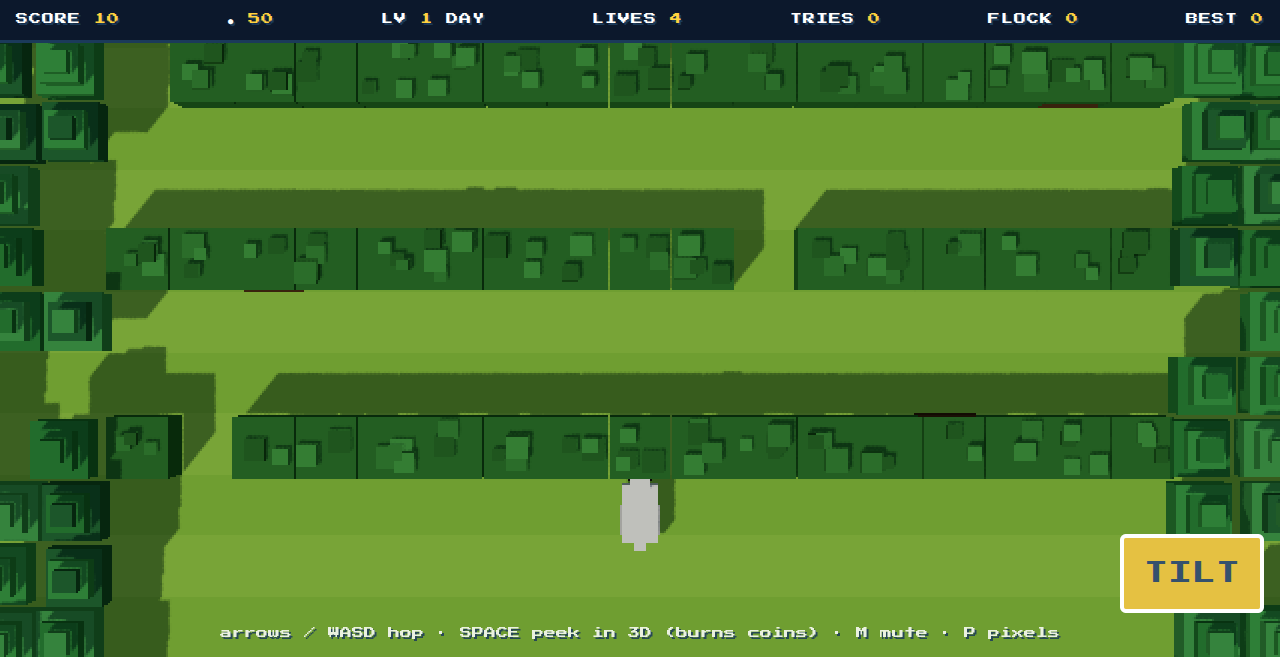
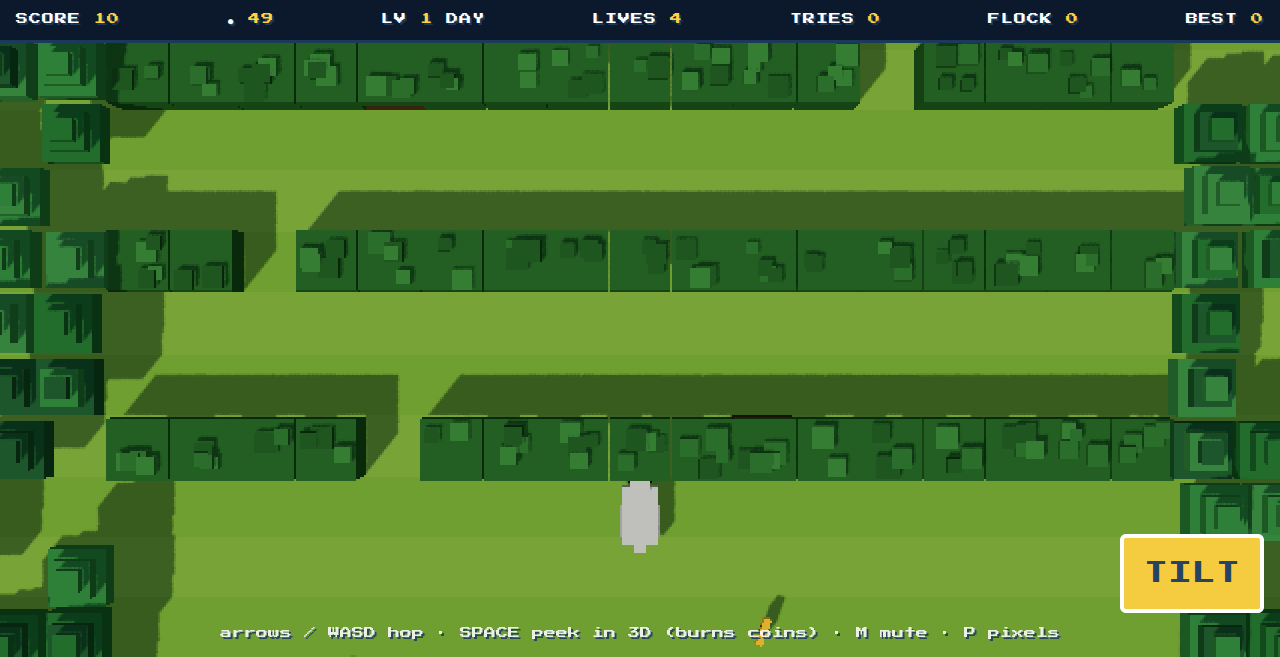
Minesweeper gauntlet: hidden mines, count dots, follower detectors, turn-and-flag, fuse and finale with scorch marks

diff --git a/src/modes/crossing.js b/src/modes/crossing.js
@@ -7,6 +7,8 @@ import { Train } from '../train.js';
 import { sfx } from '../sfx.js';
 import { music } from '../music.js';
 import { lerp, clamp } from '../util.js';
+import { W } from '../lane.js';
+import { FLAG_BONUS } from '../scenarios/mines.js';
 import { rollVariant } from '../characters.js';
 import { Debris } from '../debris.js';
 import { GAUNTLET_BONUS } from '../game.js';
@@ -46,6 +48,7 @@ export class CrossingMode {
       gauntlet: this.game.run.gauntlet,
       onFinish: () => { this.finished = true; },
     });
+    this.world.onMine = () => { this.mined = 0.001; };
     this.buildPlayers();
     this.world.ensure(26);
     this.finished = false;
@@ -57,6 +60,7 @@ export class CrossingMode {
     this.game.camera.snap(0, -3, 'top');
     this.game.ui.view.hidden = false;
     if (this.game.run.gauntlet) { this.game.card(`${this.game.run.gauntlet.toUpperCase()} GAUNTLET`); setTimeout(() => this.game.card(''), 2200); }
+    if (this.game.run.gauntlet === 'mines') this.hint = 'arrows hop · Q/E turn · F flag the cell ahead · followers beep on mines · SPACE peek';
     if (this.game.roster.length > 1) this.hint = 'P1 arrows · P2 WASD · SPACE peek in 3D (burns coins) · M mute';
   }
 
@@ -150,6 +154,8 @@ export class CrossingMode {
   onKey(e) {
     if (e.code === 'Space') { this.setTilt(!this.tilted); return true; }
     if (e.code === 'ShiftLeft' || e.code === 'ShiftRight') { this.setTilt(true); return true; }
+    if (e.code === 'KeyQ' || e.code === 'KeyE') { this.players[0].turn(e.code === 'KeyQ' ? 1 : -1); return true; }
+    if (e.code === 'KeyF') { this.plantFlag(this.players[0]); return true; }
     const solo = this.players.length === 1;
     for (let i = 0; i < KEYMAPS.length; i++) {
       const d = KEYMAPS[i][e.code];
@@ -159,6 +165,14 @@ export class CrossingMode {
       return true;
     }
     return false;
+  }
+
+  // Toggle a flag on the cell the player faces, on minefield rows only.
+  plantFlag(p) {
+    const [c, r] = p.ahead();
+    const lane = this.world.laneAt(r);
+    if (!lane?.scenario.toggleFlag || Math.abs(c) > W) { sfx.bump(); return; }
+    lane.scenario.toggleFlag(lane, c);
   }
 
   onKeyUp(e) {
@@ -246,6 +260,13 @@ export class CrossingMode {
     const waiting = this.trains.reduce((a, t) => a + t.waiting, 0);
     game.hud(game.run.score + front, `<b>${chicks}</b>${waiting ? ` +${waiting} WAITING` : ''}`);
 
+    if (this.mined) {
+      // A mine went off: a beat to take it in, then straight to the next level with nothing earned.
+      this.mined += dt;
+      game.card('KABOOM · NO BONUS');
+      if (this.mined > 2.4) { game.card(''); game.run.gauntlet = null; game.nextLevel(); }
+      return;
+    }
     if (this.tally) { this.updateTally(dt); return; }
     if (this.finished) { this.startTally(front); return; }
     for (const p of this.players) if (!p.alive && !p.gone && p.deadFor > DEATH_FLAP + 0.9) { this.respawn(p); return; }
@@ -258,8 +279,10 @@ export class CrossingMode {
     const led = this.trains.reduce((a, t) => a + t.count, 0);
     const found = this.trains.reduce((a, t) => a + t.waiting, 0);
     const missed = Math.max(0, (this.world.data.eggsPlaced ?? 0) - this.trains.reduce((a, t) => a + t.hatched, 0));
-    this.tally = { t: 0, led, found, missed, rows: front, done: false, gauntlet: !!game.run.gauntlet };
+    this.tally = { t: 0, led, found, missed, rows: front, done: false, gauntlet: !!game.run.gauntlet, mines: game.run.gauntlet === 'mines' };
     for (const p of this.players) p.invincible = true;
+    // Minefield finale: everything left in the ground goes up, nearest rows first.
+    if (this.tally.mines) for (const l of this.world.rows.values()) if (l.scenario.id === 'mines') l.scenario.detonateAll(l, this.players[0].row);
     this.setTilt(false);
     game.run.score += front;
     sfx.start();
@@ -274,6 +297,13 @@ export class CrossingMode {
     if (T.t > 0.8) lines.push(`LED HOME ×${T.led}  +${T.led * LED_BONUS}`);
     if (T.t > 1.8) lines.push(`FOUND ×${T.found}  +${T.found * FOUND_BONUS}`);
     if (T.t > 2.8 && T.missed) lines.push(`MISSED ×${T.missed}`);
+    if (T.t > 3.4 && T.mines) {
+      const rows = [...this.world.rows.values()].filter((l) => l.scenario.id === 'mines');
+      const hits = rows.reduce((a, l) => a + (l.data.hits ?? 0), 0);
+      const flags = rows.reduce((a, l) => a + l.data.flags.size, 0);
+      lines.push(`FLAGS ${hits}/${flags} RIGHT  +${hits * FLAG_BONUS}`);
+      if (!T.flagged) { T.flagged = true; game.run.score += hits * FLAG_BONUS; }
+    }
     if (T.t > 3.4 && T.gauntlet) lines.push(`PHEW, MADE IT  +${GAUNTLET_BONUS}`);
     game.card(lines.join('   ·   '));
     if (T.t > 1.8 && !T.paid) {
@@ -282,7 +312,7 @@ export class CrossingMode {
       game.run.coins += T.led + T.found;
     }
     if (T.t > 3.4 && T.gauntlet && !T.phew) { T.phew = true; game.run.score += GAUNTLET_BONUS; game.run.gauntlet = null; sfx.phew(); }
-    if (T.t > TALLY_TIME) {
+    if (T.t > TALLY_TIME + (T.mines ? 2 : 0)) {
       // Everyone carries over, gathered or not.
       this.trains.forEach((t, i) => { game.run.flock[i] = { count: t.total, waiting: 0 }; });
       game.card('');

diff --git a/src/scenarios/mines.js b/src/scenarios/mines.js
@@ -1,0 +1,114 @@
+// Minesweeper gauntlet: open ground, no traffic, buried mines that never show
+// from any angle. A guaranteed safe path random-walks up the field and carries
+// coins; eggs sit on safe cells, and the followers they hatch are your mine
+// detectors: a follower stepping on a mine makes it beep underground. Landing
+// on a safe cell shows its adjacent-mine count as red dots. Q/E turn in place
+// and F plants a flag one cell ahead. Stepping on a mine raises it, beeping,
+// and it blows the level with no bonus. Crossing the line blows every mine at
+// once instead, and the flags that were right pay out.
+import { makeMine, makeCountTile, makeFlagMarker, makeScorch } from '../meshes.js';
+import { W } from '../lane.js';
+import { sfx } from '../sfx.js';
+import { randInt, clamp } from '../util.js';
+
+const DENSITY = 0.16;
+const FUSE = 1.7;          // seconds of beeping before the blast
+export const FLAG_BONUS = 30;
+
+export default {
+  id: 'mines',
+  danger: true,
+  weight: 0,          // only as a gauntlet (or forced)
+  band: [3, 4],
+  build(lane, { world }) {
+    lane.terrain();
+    lane.edges();
+    lane.data.mines = new Map();
+    lane.data.flags = new Map();
+    lane.data.revealed = new Set();
+    world.pathCol = clamp(world.pathCol + randInt(-1, 1), -W + 1, W - 1);
+    const safe = new Set([world.pathCol - 1, world.pathCol, world.pathCol + 1]);
+    for (let c = -W; c <= W; c++) {
+      if (safe.has(c)) continue;
+      if (Math.random() < DENSITY) lane.data.mines.set(c, { c, mesh: null, t: 0 });
+      else if (Math.random() < 0.12) lane.coin(c);
+      else if (Math.random() < 0.05) lane.egg(c);
+    }
+    if (lane.r % 2 === 0) lane.coin(world.pathCol);
+  },
+
+  adjacent(lane, c) {
+    let n = 0;
+    for (const r of [lane.r - 1, lane.r, lane.r + 1]) {
+      const l = lane.world.rows.get(r);
+      if (!l?.data.mines) continue;
+      for (const dc of [-1, 0, 1]) if (l.data.mines.has(c + dc)) n++;
+    }
+    return n;
+  },
+
+  arm(lane, mine, delay = 0) {
+    mine.mesh = lane.add(makeMine(), mine.c);
+    mine.mesh.position.y = -0.9;
+    mine.t = -delay;
+    (lane.data.armed ??= []).push(mine);
+  },
+
+  onLand(lane, player) {
+    const mine = lane.data.mines.get(player.col);
+    if (mine && !mine.mesh) {
+      this.arm(lane, mine);
+      lane.data.fatal = true;
+      player.frozen = true;
+      return null;
+    }
+    if (!lane.data.revealed.has(player.col)) {
+      lane.data.revealed.add(player.col);
+      const n = this.adjacent(lane, player.col);
+      if (n) lane.add(makeCountTile(n), player.col);
+    }
+    return null;
+  },
+
+  // A follower on a mine: it beeps, buried, and nothing else happens.
+  onFollowerLand(lane, c) {
+    if (lane.data.mines.has(c)) sfx.beep(0.6);
+  },
+
+  toggleFlag(lane, c) {
+    const f = lane.data.flags.get(c);
+    if (f) { lane.group.remove(f); lane.data.flags.delete(c); }
+    else lane.data.flags.set(c, lane.add(makeFlagMarker(), c));
+    sfx.tick();
+  },
+
+  // The finale: every remaining mine rises and goes off, nearest rows first.
+  detonateAll(lane, fromRow) {
+    for (const m of lane.data.mines.values()) if (!m.mesh) this.arm(lane, m, Math.abs(lane.r - fromRow) * 0.08);
+    lane.data.finale = true;
+  },
+
+  update(lane, dt, time) {
+    const armed = lane.data.armed;
+    if (!armed?.length) return;
+    const on = Math.sin(time * 40) > 0;
+    for (const m of [...armed]) {
+      m.t += dt;
+      if (m.t < 0) continue;
+      m.mesh.position.y = Math.min(0, -0.9 + m.t * 1.6);
+      m.mesh.lamp.material.color.set(on ? 0xff2a1a : 0x3a0a0a);
+      if (m.t >= FUSE) {
+        armed.splice(armed.indexOf(m), 1);
+        lane.data.mines.delete(m.c);
+        const fx = lane.world.config.fx;
+        if (fx) fx.explode(m.mesh, 1.4); else lane.group.remove(m.mesh);
+        lane.add(makeScorch(), m.c);
+        if (lane.data.flags.has(m.c)) lane.data.hits = (lane.data.hits ?? 0) + 1;
+        if (!lane.data.finale) { sfx.boom(1.6); lane.world.onMine?.(); }
+      }
+    }
+    // One beep for the row per tick, so a finale is a chorus rather than a wall.
+    const ticking = armed.some((m) => m.t >= 0 && m.t < FUSE);
+    if (ticking && Math.floor(time / 0.12) !== lane.data.beat) { lane.data.beat = Math.floor(time / 0.12); if (Math.abs(lane.r - (lane.world.focusRow ?? lane.r)) <= 9) sfx.beep(); }
+  },
+};

diff --git a/src/meshes.js b/src/meshes.js
@@ -503,3 +503,44 @@ export function makeRailSignal() {
   g.add(box(0.7, 0.1, 0.06, 0xffffff, 0, 1.3, 0.08, false));  // crossbuck
   return g;
 }
+
+// ---- mines ----
+// Two grey plates and an antenna with a lamp. Buried until triggered.
+export function makeMine() {
+  const g = new THREE.Group();
+  g.add(box(1.0, 0.12, 1.0, 0x55585e, 0, 0));
+  g.add(box(0.7, 0.1, 0.7, 0x8a8f96, 0, 0.12));
+  g.add(box(0.06, 0.55, 0.06, 0x333333, 0, 0.22));
+  const lamp = box(0.16, 0.16, 0.16, new THREE.MeshBasicMaterial({ color: 0x3a0a0a }), 0, 0.77, 0, false);
+  g.add(lamp);
+  g.lamp = lamp;
+  return g;
+}
+
+// Disturbed earth over a buried mine: top face matches the ground, so it only
+// reads from the side.
+export function makeMound(color) {
+  return box(0.9, 0.12, 0.9, color, 0, 0, 0, false);
+}
+
+const DOT = new THREE.MeshBasicMaterial({ color: 0xff3b1a });
+// Adjacent-mine count on a revealed safe cell, as a row of dots.
+export function makeCountTile(n) {
+  const g = new THREE.Group();
+  for (let i = 0; i < Math.min(n, 8); i++) {
+    const col = i % 4, row = Math.floor(i / 4);
+    g.add(box(0.14, 0.05, 0.14, DOT, -0.3 + col * 0.2, 0.01, -0.12 + row * 0.24, false));
+  }
+  return g;
+}
+
+// Flag marker for a suspected mine, and the scorch a mine leaves behind.
+export function makeFlagMarker() {
+  const g = new THREE.Group();
+  g.add(box(0.06, 0.7, 0.06, 0xdddddd, 0.15, 0, 0.15));
+  g.add(box(0.36, 0.22, 0.05, 0xff3b1a, 0.35, 0.45, 0.15));
+  return g;
+}
+export function makeScorch() {
+  return box(0.95, 0.03, 0.95, 0x1e1a18, 0, 0, 0, false);
+}

diff --git a/src/player.js b/src/player.js
@@ -39,6 +39,7 @@ export class Player {
     this.onLanded = null;     // hook: called after every landing
     this.isOccupied = null;   // hook: (col, row) => true blocks a hop
     this.invincible = false;
+    this.frozen = false;
     this.bump = 0;
     this.lastHop = -10; this.burst = 0; this.idle = 0;
     this.mesh.scale.set(1, 1, 1);
@@ -57,7 +58,7 @@ export class Player {
   }
 
   hop(dc, dr) {
-    if (!this.alive) return;
+    if (!this.alive || this.frozen) return;
     if (this.moving) { this.buffered = [dc, dr]; return; }
     this.facing = dr > 0 ? 0 : dr < 0 ? Math.PI : dc < 0 ? Math.PI / 2 : -Math.PI / 2;
     const tc = Math.round(this.x) + dc;
@@ -82,6 +83,20 @@ export class Player {
     this.carrier = null;
     sfx.hop();
     this.call();
+  }
+
+  // Turn a quarter without moving; the flag goes where you face.
+  turn(dir) {
+    if (!this.alive || this.moving) return;
+    this.facing += dir * (Math.PI / 2);
+    sfx.tick();
+  }
+
+  // The cell one step ahead in the facing direction.
+  ahead() {
+    const a = Math.round(this.facing / (Math.PI / 2)) & 3;   // 0 fwd, 1 left, 2 back, 3 right
+    const d = [[0, 1], [-1, 0], [0, -1], [1, 0]][a];
+    return [Math.round(this.x) + d[0], this.row + d[1]];
   }
 
   mount(m) {

diff --git a/src/debug.js b/src/debug.js
@@ -3,7 +3,7 @@ import { SCENARIOS } from './scenarios/index.js';
 import { SKIES } from './sky.js';
 import { SCENERY } from './scenery/index.js';
 
-const FORCE = { KeyQ: 'road', KeyE: 'river', KeyI: 'runway', KeyO: 'rail', KeyT: 'grass', KeyY: 'hedge', KeyU: 'meadow' };
+const FORCE = { KeyQ: 'road', KeyE: 'river', KeyI: 'runway', KeyO: 'rail', KeyL: 'mines', KeyT: 'grass', KeyY: 'hedge', KeyU: 'meadow' };
 
 export function installDebug(game, ui) {
   const panel = ui.debug;
@@ -11,7 +11,7 @@ export function installDebug(game, ui) {
     panel.innerHTML = [
       '<b>DEBUG</b> (` closes)',
       '1-4 level &nbsp; 5 battle &nbsp; N next level',
-      'Q road &nbsp; E river &nbsp; I runway &nbsp; O rail &nbsp; T grass &nbsp; Y hedge &nbsp; U meadow &nbsp; 0 clear',
+      'Q road &nbsp; E river &nbsp; I runway &nbsp; O rail &nbsp; L mines &nbsp; T grass &nbsp; Y hedge &nbsp; U meadow &nbsp; 0 clear',
       'K sky &nbsp; J scenery &nbsp; V gauntlet &nbsp; G god &nbsp; C +10 coins &nbsp; H hatch chick',
       `<i>force: ${game.debug.force ?? 'none'} · sky: ${game.debug.sky ?? 'level'} · scenery: ${game.debug.scenery ?? 'level'} · god: ${game.debug.god ? 'on' : 'off'}</i>`,
     ].join('<br>');

diff --git a/src/sfx.js b/src/sfx.js
@@ -119,6 +119,7 @@ export const sfx = {
   fall: () => voice({ wave: 'triangle', freq: 1400, slideTo: 180, attack: 0.02, decay: 0.05, sustain: 0.8, hold: 0.55, release: 0.2, vol: 0.07 }),
   // Soft double ding: a nudge that something is hidden nearby.
   dingding: () => { for (const d of [0, 160]) setTimeout(() => voice({ wave: 'triangle', freq: N(93), attack: 0.003, decay: 0.05, sustain: 0.5, hold: 0.05, release: 0.12, vol: 0.045 }), d); },
+  beep: (pitch = 1) => voice({ wave: 'square', freq: 2100 * pitch, attack: 0.002, decay: 0.02, sustain: 0.5, hold: 0.03, release: 0.03, vol: 0.05 }),
   tick: () => voice({ wave: 'square', freq: N(84), attack: 0.002, decay: 0.02, sustain: 0.3, hold: 0.02, release: 0.04, vol: 0.05 }),
   // Coin drop into the slot: two bright metallic blips.
   clink: () => { voice({ wave: 'square', freq: N(91), attack: 0.002, decay: 0.03, sustain: 0.4, hold: 0.03, release: 0.05, vol: 0.06 });

diff --git a/src/train.js b/src/train.js
@@ -148,7 +148,11 @@ export class Train {
         k.mesh.position.set(lerp(k.from.x, tx, t), lerp(k.from.y, ty, t) + s * 0.4, lerp(k.from.z, tz, t));
         sy = 1 + 0.2 * s;
         setFrame(k.mesh, t > 0.2 && t < 0.85 ? 1 : 0);
-        if (k.t >= 1) { k.moving = false; setFrame(k.mesh, 0); }
+        if (k.t >= 1) {
+          k.moving = false; setFrame(k.mesh, 0);
+          const l = this.world.laneAt(k.rec.row);
+          l?.scenario.onFollowerLand?.(l, Math.round(this.resolveX(k.rec)));
+        }
       } else {
         k.mesh.position.set(tx, ty, tz);
       }

diff --git a/src/game.js b/src/game.js
@@ -16,7 +16,7 @@ const START_LIVES = 4;       // one coin buys this many
 const ODD_WEATHER = 0.1;     // chance the first level opens under a different sky
 const CONTINUE_TIME = 10;    // seconds to decide at game over
 const GAUNTLET_CHANCE = 0.06; // a level that is all one hazard, from level 2 on
-const GAUNTLET_KINDS = ['road', 'river', 'runway', 'rail'];
+const GAUNTLET_KINDS = ['road', 'river', 'runway', 'rail', 'mines'];
 export const GAUNTLET_BONUS = 500;
 
 export class Game {

diff --git a/src/scenarios/index.js b/src/scenarios/index.js
@@ -19,6 +19,7 @@ import hedge from './hedge.js';
 import finish from './finish.js';
 import runway from './runway.js';
 import rail from './rail.js';
+import mines from './mines.js';
 
-export const SCENARIOS = { meadow, grass, road, river, runway, rail, hedge, finish };
+export const SCENARIOS = { meadow, grass, road, river, runway, rail, mines, hedge, finish };
 export const INTRO = 'meadow';

diff --git a/docs/playtest.md b/docs/playtest.md
@@ -12,8 +12,8 @@ Playtest parameters are ON in `src/config.js` (`PLAYTEST_URL`). When off, every 
 | `start` | flag | Skip the title and coin slot, start with 4 lives |
 | `battle` | flag | Like `start`, then straight into the Air-Sea Battle |
 | `level` | 1–99 | Start on this level |
-| `force` | `meadow` `grass` `road` `river` `runway` `rail` `hedge` | Every band on the board is this scenario |
-| `gauntlet` | `road` `river` `runway` `rail` | A gauntlet level of this hazard |
+| `force` | `meadow` `grass` `road` `river` `runway` `rail` `mines` `hedge` | Every band on the board is this scenario |
+| `gauntlet` | `road` `river` `runway` `rail` `mines` | A gauntlet level of this hazard |
 | `sky` | `day` `sunset` `night` `rain` | Override the level's sky |
 | `scenery` | `forest` `residential` `city` `parking` | Override the level's scenery theme |
 | `chars` | `chicken` `goose` `duck` `frog` `cat` `pig` `robot` | Roster, comma separated; two ids gives co-op |
@@ -48,6 +48,7 @@ Each forced across the whole board, with god mode and a full pocket so nothing i
 | `river` | logs, boats, subs, gators; divers | [`?start&force=river&god&coins=50`](https://aaronsb.github.io/road-crosser/?start&force=river&god&coins=50) | [`?start&force=river&sky=night&god&coins=50`](https://aaronsb.github.io/road-crosser/?start&force=river&sky=night&god&coins=50) | [`?start&level=8&force=river&god&coins=50`](https://aaronsb.github.io/road-crosser/?start&level=8&force=river&god&coins=50) |
 | `runway` | planes taxiing, taking off, landing; ridable wings | [`?start&force=runway&god&coins=50`](https://aaronsb.github.io/road-crosser/?start&force=runway&god&coins=50) | [`?start&force=runway&sky=night&god&coins=50`](https://aaronsb.github.io/road-crosser/?start&force=runway&sky=night&god&coins=50) | [`?start&level=8&force=runway&god&coins=50`](https://aaronsb.github.io/road-crosser/?start&level=8&force=runway&god&coins=50) |
 | `rail` | trains with ridable cars and crossing gates | [`?start&force=rail&god&coins=50`](https://aaronsb.github.io/road-crosser/?start&force=rail&god&coins=50) | [`?start&force=rail&sky=night&god&coins=50`](https://aaronsb.github.io/road-crosser/?start&force=rail&sky=night&god&coins=50) | [`?start&level=8&force=rail&god&coins=50`](https://aaronsb.github.io/road-crosser/?start&level=8&force=rail&god&coins=50) |
+| `mines` | minesweeper field: mounds from the side, dots on safe cells, coins mark the path | [`?start&force=mines&god&coins=50`](https://aaronsb.github.io/road-crosser/?start&force=mines&god&coins=50) | [`?start&force=mines&sky=night&god&coins=50`](https://aaronsb.github.io/road-crosser/?start&force=mines&sky=night&god&coins=50) | [`?start&level=8&force=mines&god&coins=50`](https://aaronsb.github.io/road-crosser/?start&level=8&force=mines&god&coins=50) |
 | `hedge` | wall with a visible gap and a hidden tunnel | [`?start&force=hedge&god&coins=50`](https://aaronsb.github.io/road-crosser/?start&force=hedge&god&coins=50) | [`?start&force=hedge&sky=night&god&coins=50`](https://aaronsb.github.io/road-crosser/?start&force=hedge&sky=night&god&coins=50) | [`?start&level=8&force=hedge&god&coins=50`](https://aaronsb.github.io/road-crosser/?start&level=8&force=hedge&god&coins=50) |
 
 ## Gauntlets
@@ -58,6 +59,7 @@ Each forced across the whole board, with god mode and a full pocket so nothing i
 | `river` | [`?start&level=4&gauntlet=river`](https://aaronsb.github.io/road-crosser/?start&level=4&gauntlet=river) |
 | `runway` | [`?start&level=4&gauntlet=runway`](https://aaronsb.github.io/road-crosser/?start&level=4&gauntlet=runway) |
 | `rail` | [`?start&level=4&gauntlet=rail`](https://aaronsb.github.io/road-crosser/?start&level=4&gauntlet=rail) |
+| `mines` | [`?start&level=4&gauntlet=mines`](https://aaronsb.github.io/road-crosser/?start&level=4&gauntlet=mines) |
 
 ## Skies and scenery
 

diff --git a/docs/screenshots.md b/docs/screenshots.md
@@ -34,6 +34,14 @@ Captured by `make shots` on 2026-09-11.
 
 ![iso.png](screenshots/iso.png)
 
+## mines-iso
+
+![mines-iso.png](screenshots/mines-iso.png)
+
+## mines-top
+
+![mines-top.png](screenshots/mines-top.png)
+
 ## night-iso
 
 ![night-iso.png](screenshots/night-iso.png)
